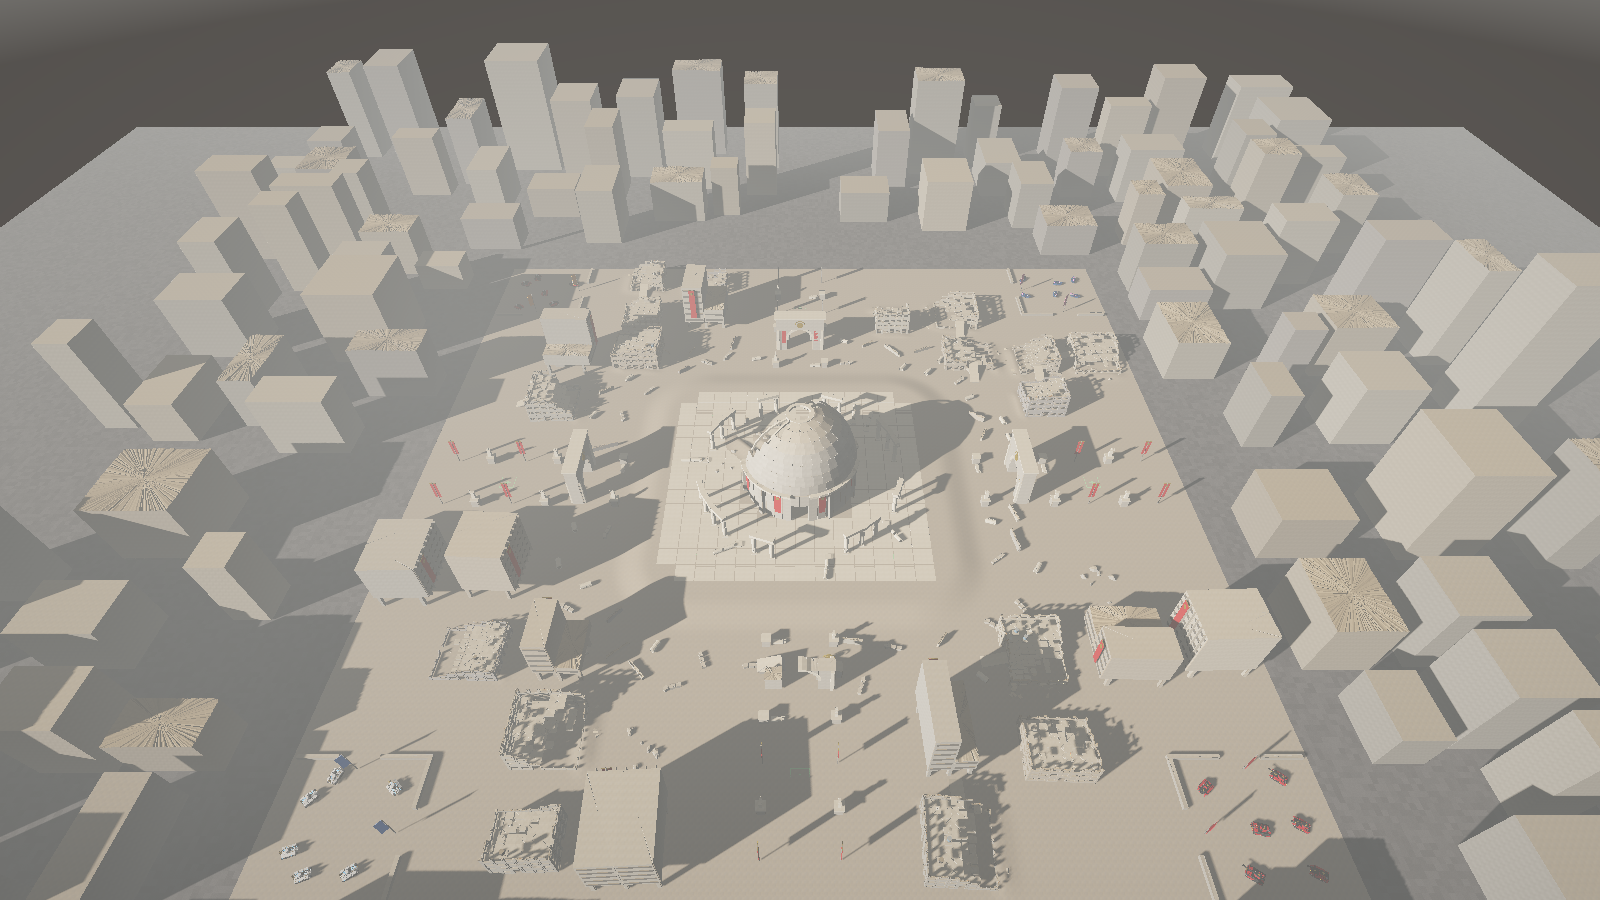
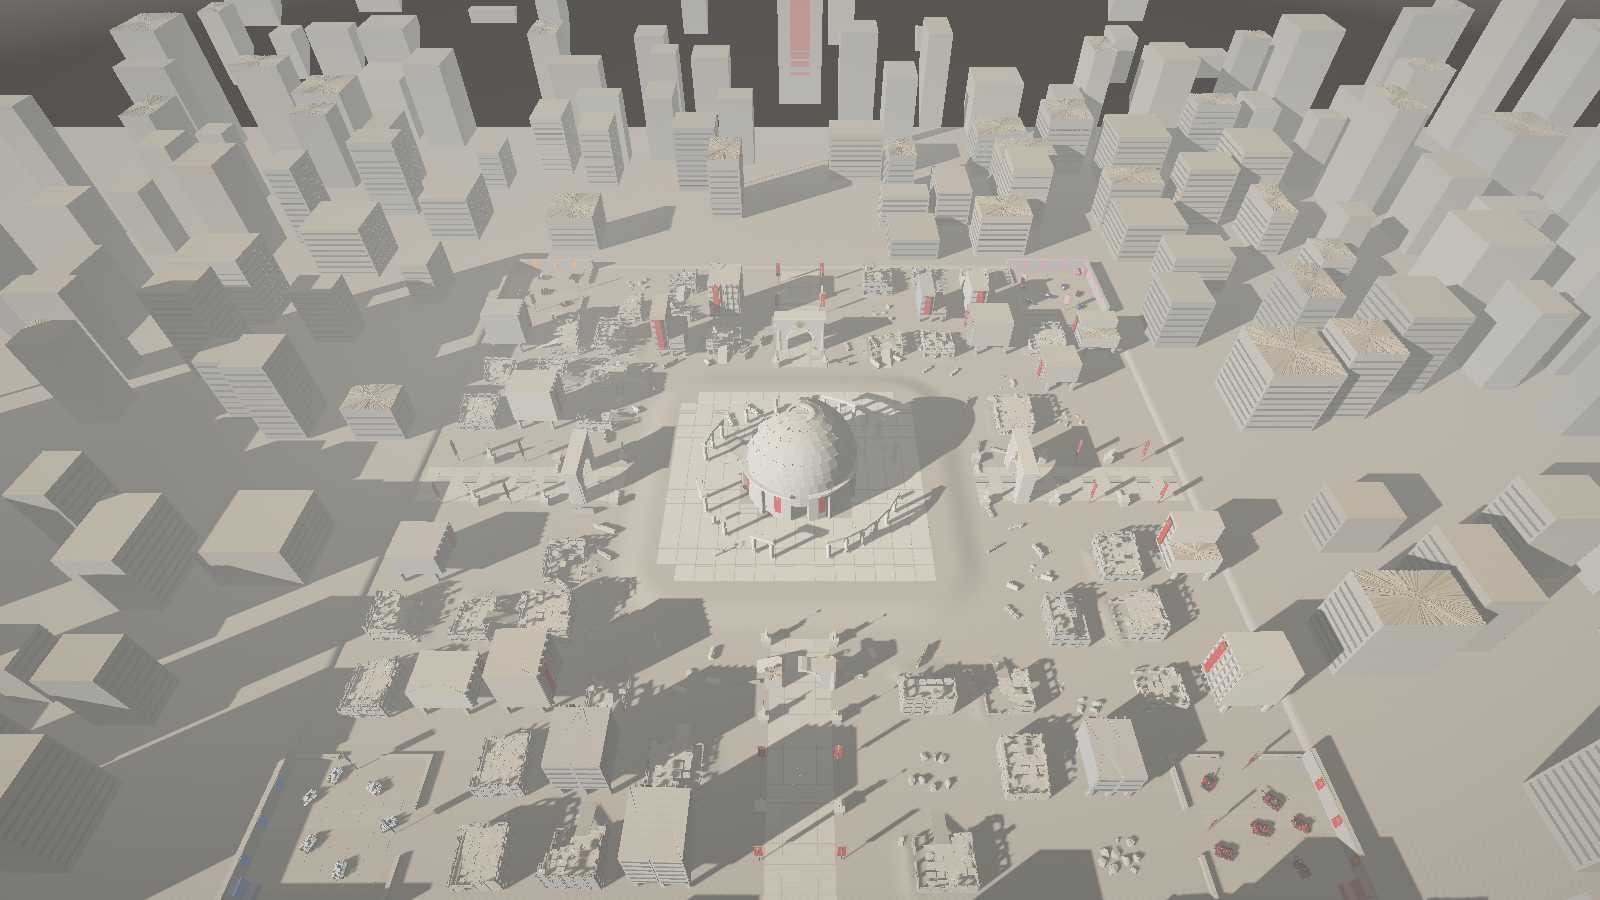
Capital edge: ground to the horizon, windowed towers, a tower at each vista
Past the edge the play ground stopped at a dark apron, which showed
exactly where the map ended, and the city beyond was blank boxes. Now
flat ground runs out past the far plane, the nearer towers carry ribbon
windows on the faces toward the city, and each avenue's vista ends far
off at a great tower hung with crimson. The sun is a touch less warm, so
grey concrete reads grey.

Claude-Session: https://claude.ai/code/session_01MEmTqGFh5SupVppAE7vsxk

diff --git a/src/map/capital.rs b/src/map/capital.rs
@@ -143,7 +143,7 @@ impl Map {
             // A cold, hazy morning: pale sun low in the east, ash in the air.
             atmosphere: crate::render::Atmosphere {
                 sun_dir: Vec3::new(0.66, 0.36, -0.4),
-                sun_color: Vec3::new(2.15, 1.95, 1.7),
+                sun_color: Vec3::new(2.05, 1.95, 1.8),
                 sky_zenith: Vec3::new(0.28, 0.34, 0.44),
                 sky_horizon: Vec3::new(0.6, 0.6, 0.58),
                 ground_color: Vec3::new(0.26, 0.25, 0.24),
@@ -1526,14 +1526,30 @@ impl Map {
         self.repair_spots = repairs.into_iter().filter(|&p| clear(self, p)).collect();
     }
 
-    /// Beyond the edge the city goes on: concrete towers and slabs (some
-    /// broken off), leaving the avenues' vistas open. Visual only.
+    /// Beyond the edge the city goes on, on flat ground out to the haze:
+    /// concrete towers and slabs, banded with dark ribbon windows on the
+    /// faces toward the city, some broken off, taller the further out. The
+    /// avenues' vistas stay open, each closed far off by a great tower
+    /// hung with crimson. Visual only.
     fn skyline(&mut self, rng: &mut Rng) {
+        // Flat ground from the edge out past the far plane, matching the
+        // play ground at the edge (grid lines on 0 and SIZE); under the
+        // arena it sinks out of sight.
+        let (cell, reach) = (4.0f32, 560.0f32);
+        let n = ((SIZE + 2.0 * reach) / cell) as usize + 1;
+        let mut t = Terrain::from_fn(Vec2::splat(-reach), cell, n, n, |x, z| {
+            let inside = x > 0.01 && z > 0.01 && x < SIZE - 0.01 && z < SIZE - 0.01;
+            if inside { -8.0 } else { 0.0 }
+        });
+        t.color = GROUND;
+        t.material = Material::Concrete;
+        self.scenery_terrain = Some(t);
+
         let mut placed: Vec<OBox> = Vec::new();
-        for _ in 0..900 {
+        for _ in 0..1600 {
             let p = Vec2::new(
-                rng.range(-160.0, SIZE + 160.0),
-                rng.range(-160.0, SIZE + 160.0),
+                rng.range(-320.0, SIZE + 320.0),
+                rng.range(-320.0, SIZE + 320.0),
             );
             let outside = p.x < -24.0 || p.y < -24.0 || p.x > SIZE + 24.0 || p.y > SIZE + 24.0;
             let d = p - CENTER;
@@ -1541,20 +1557,24 @@ impl Map {
             if !outside || vista {
                 continue;
             }
-            let far = ((p - CENTER).abs().max_element() - MID).max(0.0);
+            let far = (d.abs().max_element() - MID).max(0.0);
+            // Thinner out in the haze.
+            if rng.f32() < far / 400.0 {
+                continue;
+            }
             let half = Vec2::new(rng.range(7.0, 18.0), rng.range(7.0, 18.0));
             let lot = OBox {
                 center: p,
                 half,
-                yaw: if rng.f32() < 0.5 { 0.0 } else { FRAC_PI_2 },
                 ..OBox::default()
             };
-            if placed.iter().any(|o| o.overlaps(&lot, 4.0)) {
+            if placed.iter().any(|o| o.overlaps(&lot, 5.0)) {
                 continue;
             }
-            let h = rng.range(10.0, 26.0) + far * rng.range(0.1, 0.35);
+            let h = rng.range(10.0, 26.0) + far * rng.range(0.1, 0.3);
             // Darker than the city inside: they sit back in the haze.
             let color = CONCRETES[rng.index(CONCRETES.len())] * rng.range(0.6, 0.75);
+            let broken = rng.f32() < 0.35;
             self.oboxes.push(OBox {
                 y0: 0.0,
                 y1: h,
@@ -1562,10 +1582,73 @@ impl Map {
                 side_mat: Material::Concrete,
                 top_mat: Material::Concrete,
                 solid: false,
-                broken: rng.f32() < 0.35,
+                broken,
                 ..lot
             });
+            // Ribbon windows on the faces toward the city, for the nearer
+            // ones (the far ones are haze).
+            if far < 140.0 {
+                let toward = Vec2::new(-d.x.signum(), -d.y.signum());
+                let mut y = 3.0;
+                while y + 2.5 < h - if broken { 3.0 } else { 0.0 } {
+                    for (axis, sign) in [(0, toward.x), (1, toward.y)] {
+                        let (c, hh) = if axis == 0 {
+                            (
+                                p + Vec2::new(sign * (half.x + 0.05), 0.0),
+                                Vec2::new(0.08, half.y - 1.0),
+                            )
+                        } else {
+                            (
+                                p + Vec2::new(0.0, sign * (half.y + 0.05)),
+                                Vec2::new(half.x - 1.0, 0.08),
+                            )
+                        };
+                        self.oboxes.push(OBox {
+                            center: c,
+                            half: hh,
+                            y0: y,
+                            y1: y + 1.1,
+                            color: CONCRETE_DARK * 0.5,
+                            side_mat: Material::Concrete,
+                            top_mat: Material::Concrete,
+                            solid: false,
+                            ..OBox::default()
+                        });
+                    }
+                    y += 3.6;
+                }
+            }
             placed.push(lot);
+        }
+
+        // At the end of each vista, far out: a great tower, crimson down
+        // its face.
+        for dir in AXES {
+            let p = CENTER + dir * (MID + 220.0);
+            let side = Vec2::new(-dir.y, dir.x);
+            let half = (side * 16.0 + dir * 12.0).abs();
+            let h = 110.0;
+            self.oboxes.push(OBox {
+                center: p,
+                half,
+                y0: 0.0,
+                y1: h,
+                color: CONCRETE * 0.7,
+                side_mat: Material::Concrete,
+                top_mat: Material::Concrete,
+                solid: false,
+                ..OBox::default()
+            });
+            let face = Vec3::new(p.x, 0.0, p.y)
+                - Vec3::new(dir.x, 0.0, dir.y) * (half.dot(dir.abs()) + 0.1);
+            self.side_banner(
+                Vec3::new(face.x, h - 6.0, face.z),
+                -dir,
+                14.0,
+                70.0,
+                CRIMSON,
+                true,
+            );
         }
     }
 }
